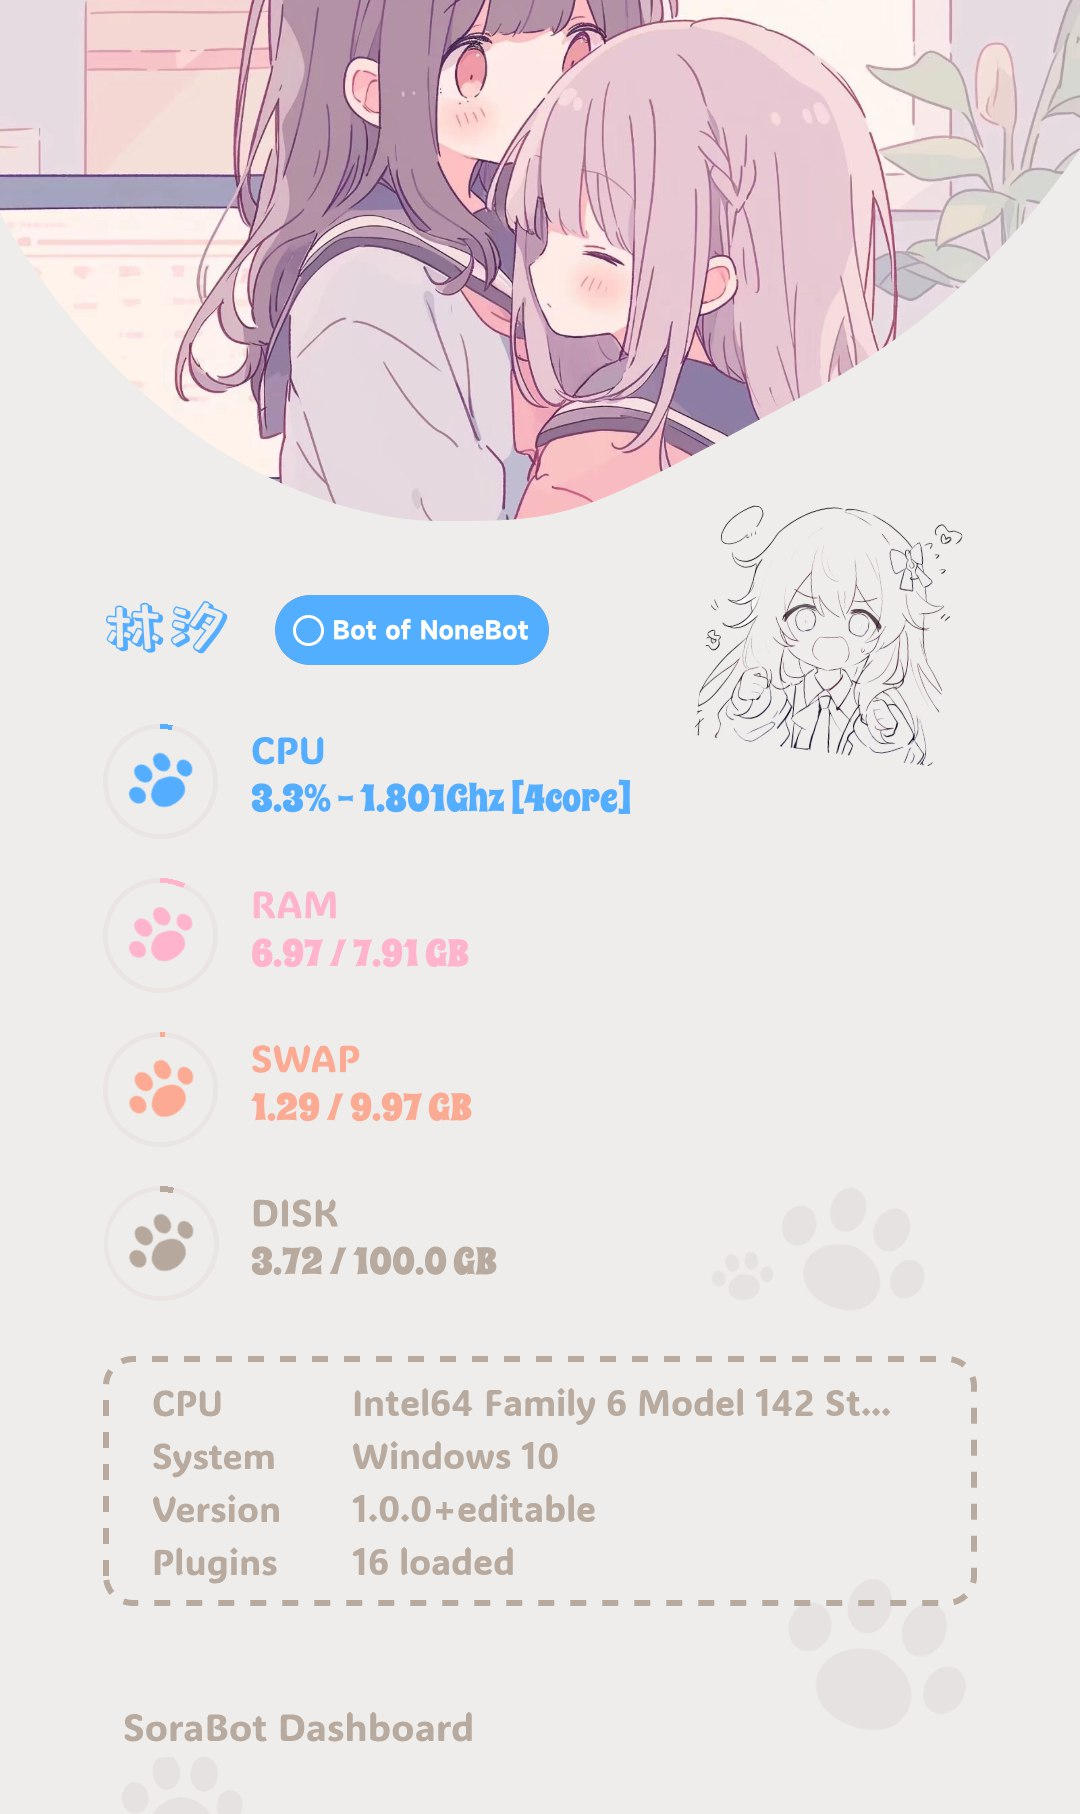
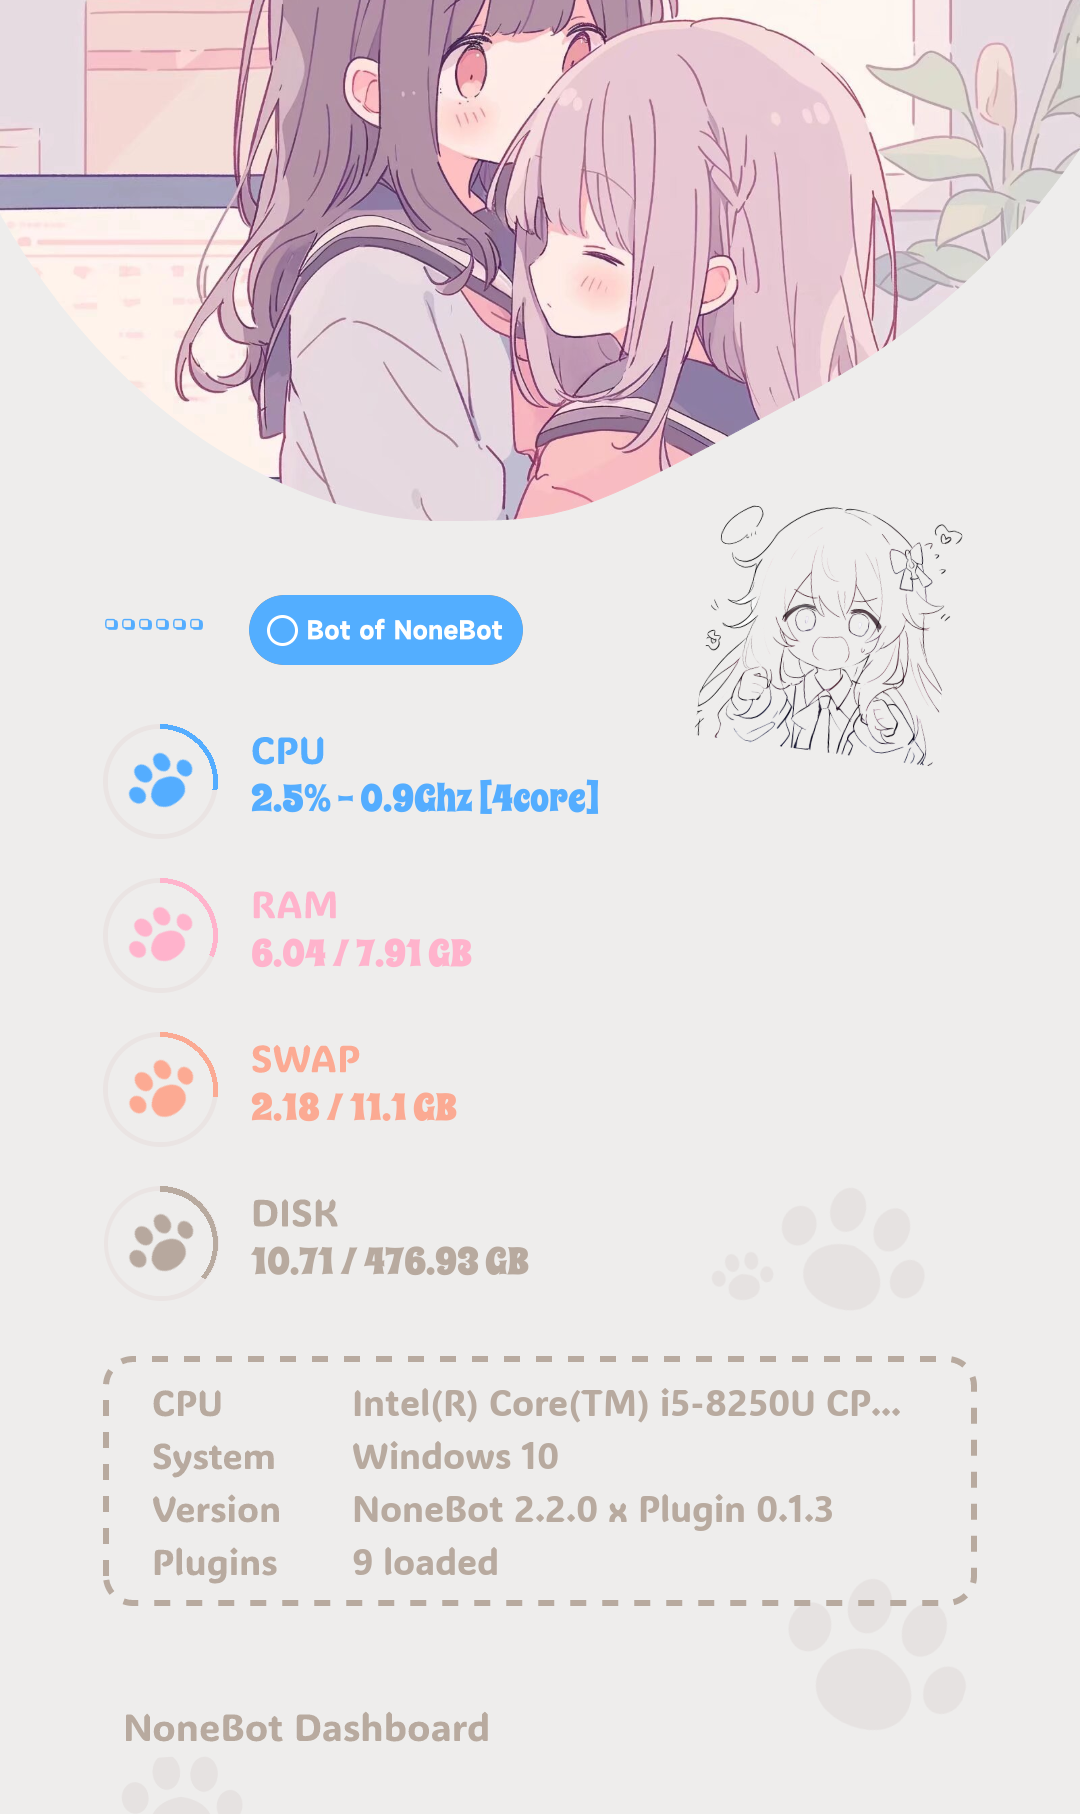
Fix: 优化 CPU 信息显示 (#7)
* 💄 优化 CPU 信息显示

* 📝 更新效果图

diff --git a/nonebot_plugin_kawaii_status/drawer.py b/nonebot_plugin_kawaii_status/drawer.py
@@ -1,6 +1,7 @@
 import platform
 from io import BytesIO
 
+import cpuinfo
 import nonebot
 from nonebot import get_plugin_config
 from PIL import Image, ImageDraw, ImageFont
@@ -96,7 +97,7 @@ def draw() -> bytes:
 
         content.text(
             (352, 1378),
-            f"{truncate_string(platform.processor())}",
+            f"{truncate_string(cpuinfo.get_cpu_info()['brand_raw'])}",
             font=adlam_fnt,
             fill=details_color,
         )
